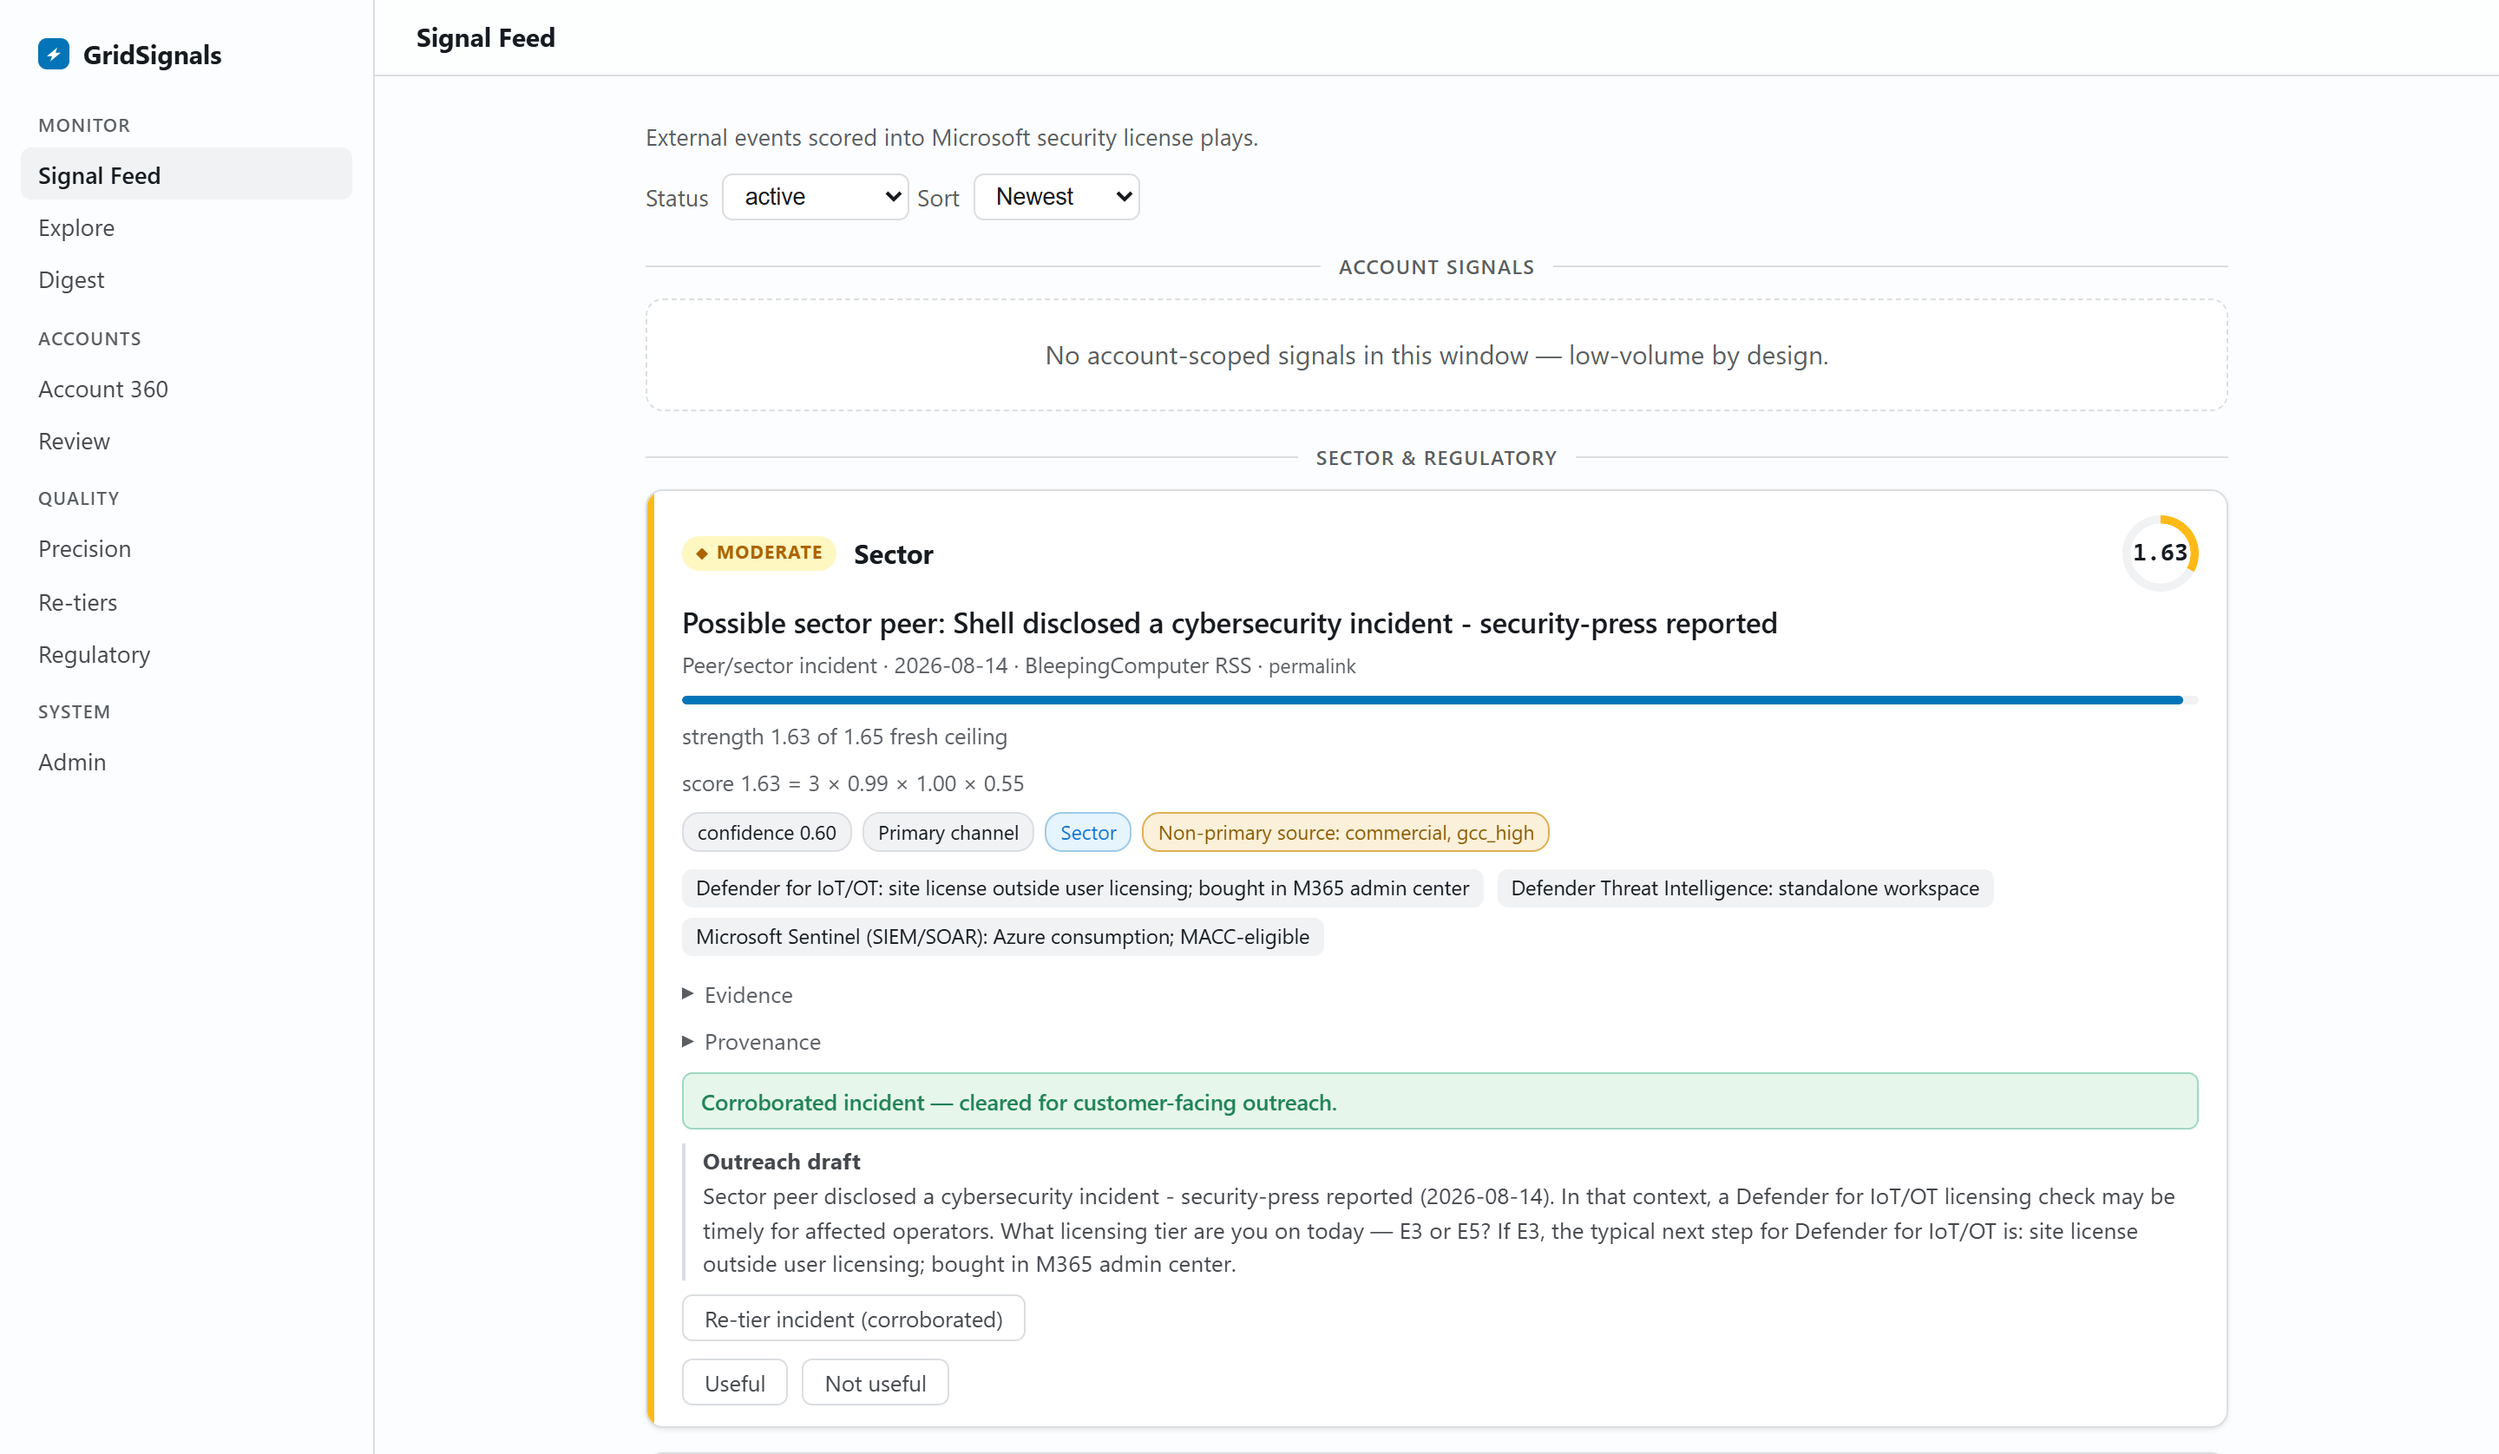
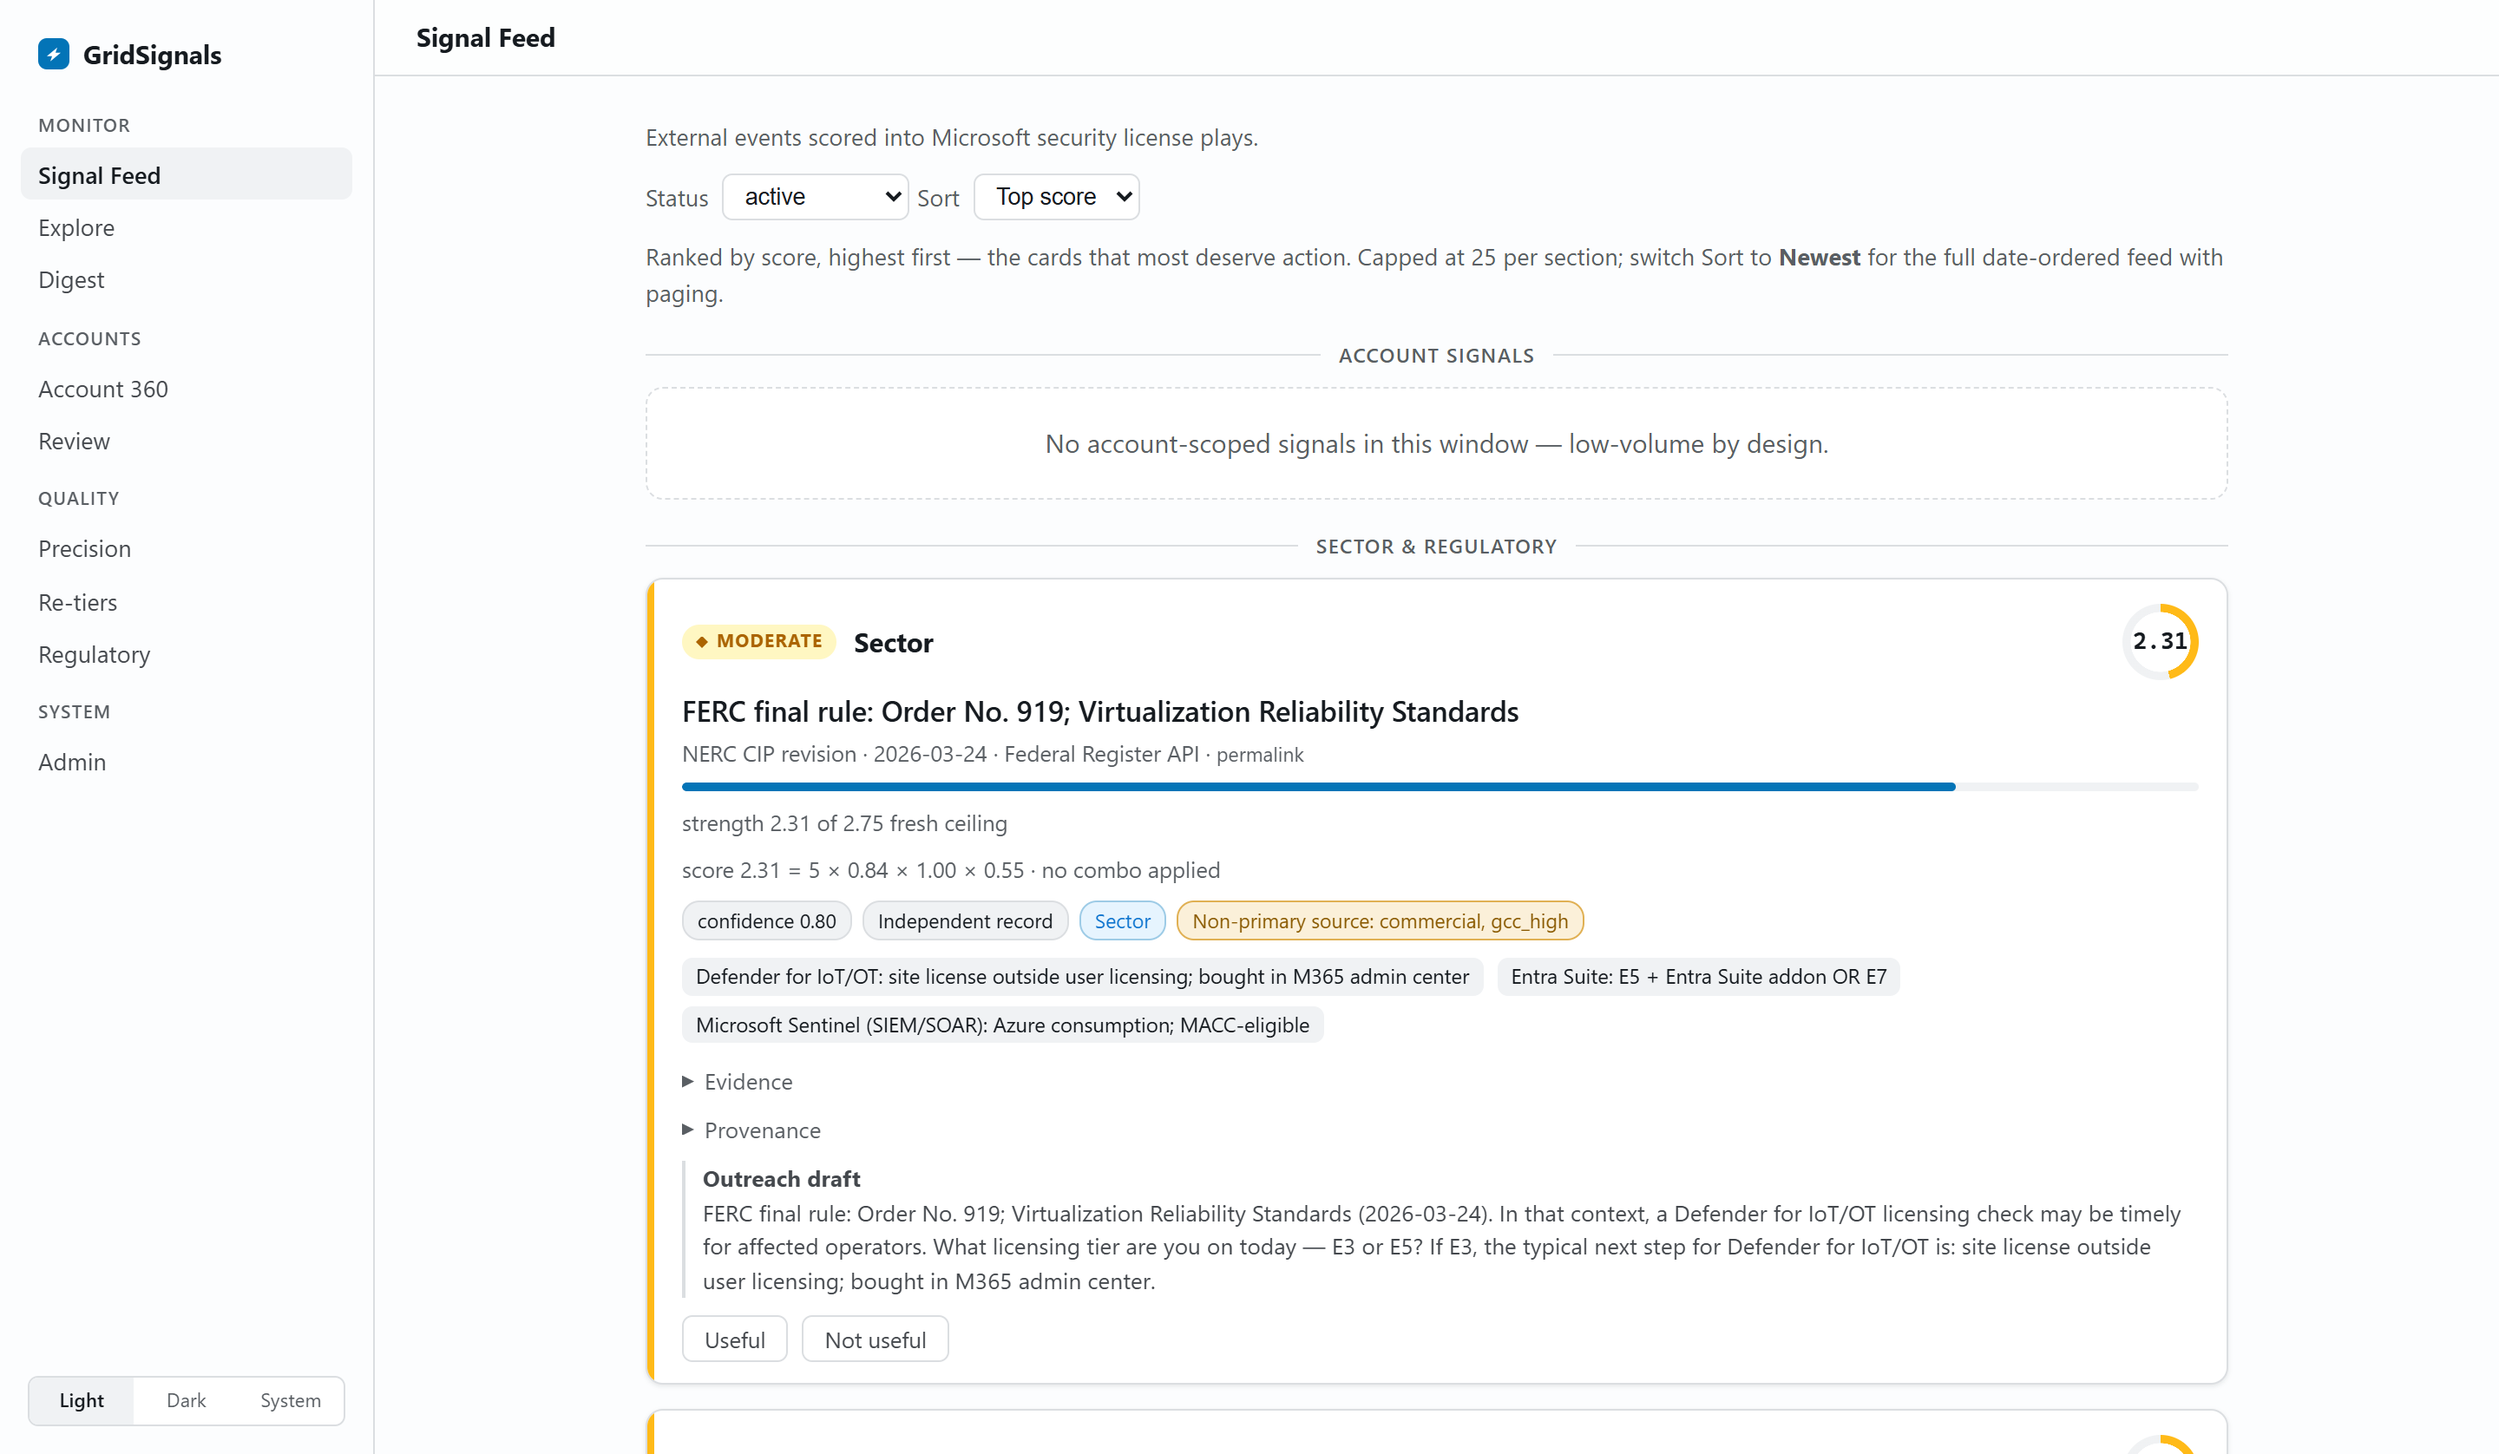
docs(readme): mark combo scoring enabled with honest zero live fire-count
Combo scoring (R12) shipped enabled in #113/#114 (migration 0014,
seeds/combo_rules.csv, enabled_stage=2). The README Coverage note still
read "plumbing is wired (measured-inert until U10/U11 seed combo_rules)",
which is now stale — the rules ARE seeded and enabled.

Reword to state combo scoring is implemented and enabled, and disclose the
honest live status measured read-only against the store: 0 of 172 watchlist
entities satisfy either combo today (no account-scoped signal carries an
entity_id), so cards score exactly as before combos landed. GDELT/hiring
stay in the "later stages" framing (both still deferred/blocked).

Regenerate signal-feed.png and digest.png: #113 changed the score-breakdown
suffix to "· no combo applied" and combo_rules now feeds the scoring config
hash, so the committed shots showed the pre-combo four-factor line and the
old config version. Same viewport/framing as the prior shots.

diff --git a/README.md b/README.md
@@ -259,7 +259,9 @@ The MVP classifies regulatory actions, leadership changes, and precision-first c
 | NERC enforcement-docket fetcher (NP-series notices of penalty) + NERC events calendar | Implemented — both ingested, neither classified yet; measured ceiling is 2 watchlist entities over 18 months, so this is no longer the account-scope lever it was scoped as (see [Coverage](#coverage)) |
 | Typed `raw_events` → `facility_assets` projection (EIA plant records → owner-matched, geo-located facilities) | **Not built** — the Explore watchlist map and its ≥0.85 owner-confidence gate are implemented and read this table, so the map has nothing to plot until the projection exists |
 
-Later stages add GDELT-based classification and a hiring/macro-trend layer. Combo scoring plumbing is wired (measured-inert until U10/U11 seed `combo_rules`).
+Later stages add GDELT-based classification and a hiring/macro-trend layer.
+
+Combo scoring is **implemented and enabled**: two combo rules ship in `seeds/combo_rules.csv` — an incident-and-regulatory-pressure combo (an `own_incident` or `pipeline_enforcement_action` trigger plus an applicable regulatory obligation) and a capital-project + regulatory combo (a `capital_project` award naming no OT-security tooling, plus an applicable obligation) — and apply a score multiplier to a card when they fire. Live today it is score-inert: **0 of 172 watchlist entities** currently satisfy either combo, because no account-scoped signal has fired yet — every active signal is sector- or regulatory-scoped, so none of the combos' account triggers is present — and every card scores exactly as it did before combos landed.
 
 ## Notes
 
